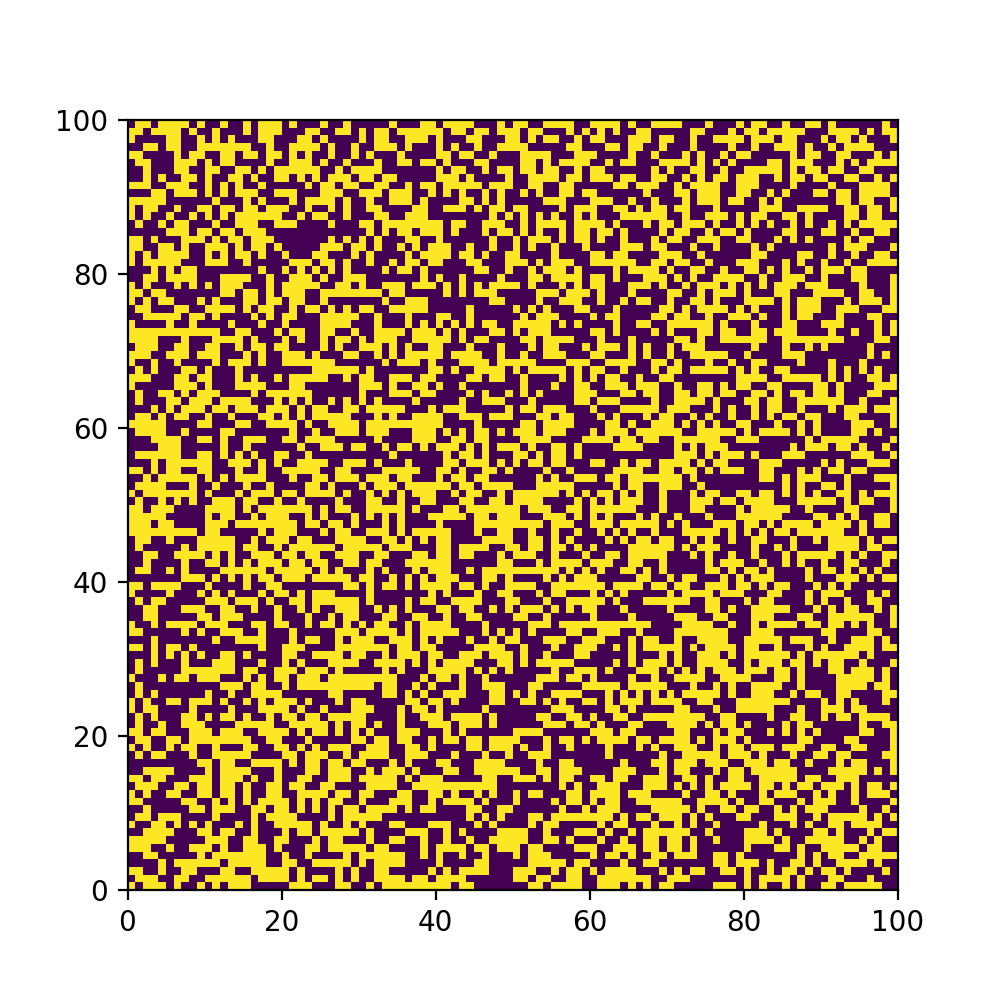
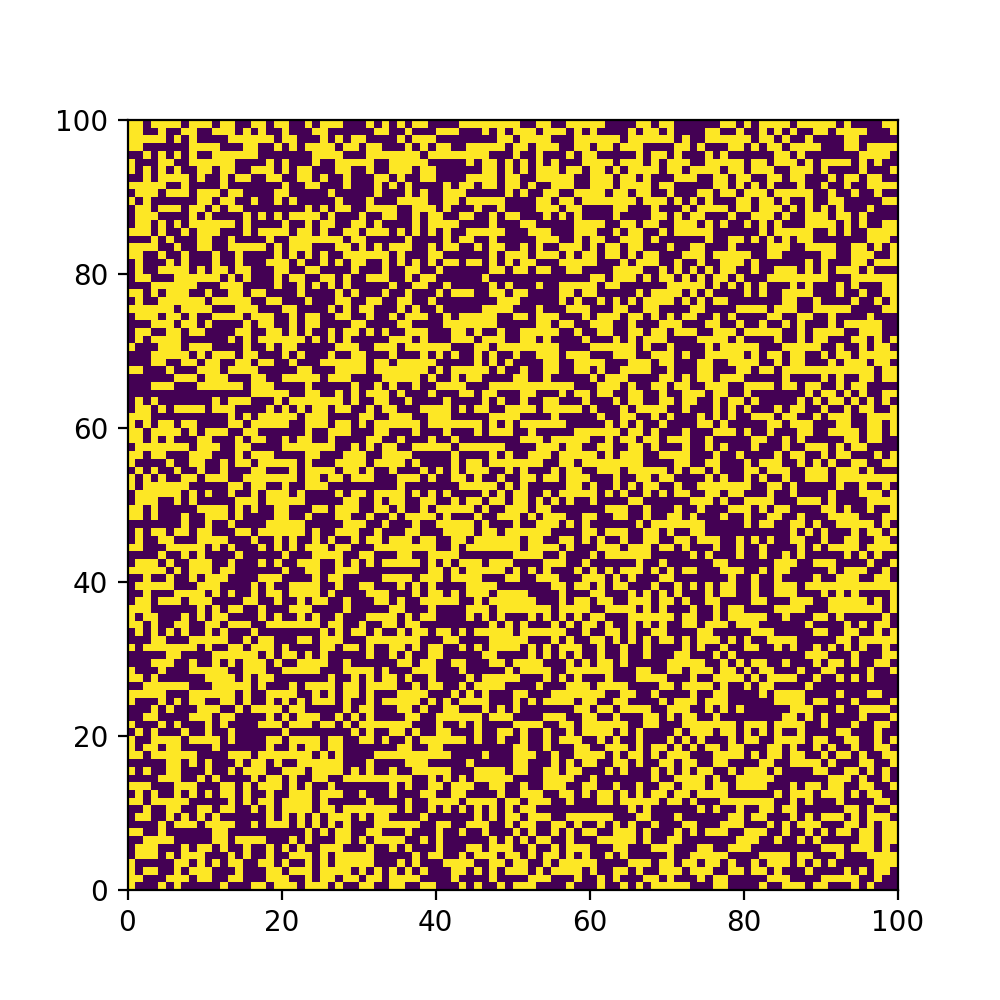
basically done. needs to be faster nedd to save array as string

Changed region(s): [[0.124, 0.124, 0.899, 0.899]]

diff --git a/Zweites/DeltaE/V2.py b/Zweites/DeltaE/V2.py
@@ -1,0 +1,34 @@
+import DetermineCharge as DC
+import numpy as np
+import MakeGitter as MG
+
+def deltaE(conf_alt, altE, pos, charge, n):
+    n -= 1
+
+    neuE = altE
+
+    neuE -= DC.getCharge(conf_alt, pos[0], pos[1], n)
+
+    neuE += charge
+    neuE += conf_alt[pos[0] - 1][pos[1]] if pos[0] >= 0 else 0
+    neuE += conf_alt[pos[0] + 1][pos[1]] if pos[0] <= (n-1) else 0
+    neuE += conf_alt[pos[0]][pos[1] - 1] if pos[1] >= 0 else 0
+    neuE += conf_alt[pos[0]][pos[1] + 1] if pos[1] <= (n-1) else 0
+
+    return neuE - altE
+
+def switchSpin(conf, n, e, r):
+    for x in range(r):
+        altE = DC.getAllCharge(conf, n)
+        charge = MG.charge()
+
+        pos = np.random.randint(0, n, size=(2))
+
+        if deltaE(conf, altE, pos, charge, n) <= 0:
+            conf[pos[0]][pos[1]] = charge
+        elif np.random.rand() < e:
+            conf[pos[0]][pos[1]] = charge
+        else:
+            pass
+
+    return conf

diff --git a/Zweites/main.py b/Zweites/main.py
@@ -7,7 +7,8 @@ import DeltaE.V2 as DeltaE
 import matplotlib.pyplot as plt
 
 n = 100
-e = 0.01
+e = 0.001
+r = 100000
 
 # print(DC.getAllCharge(x, n))
 def bla(n):
@@ -15,7 +16,7 @@ def bla(n):
 
 gitter = MG.getGitter(n)
 MG.save(gitter, n, "alt")
-conf_neu = DeltaE.switchSpin(gitter, n, e)
+conf_neu = DeltaE.switchSpin(gitter, n, e, r)
 MG.save(conf_neu, n, "neu")
 
 # x = MG.getGitter(n)

diff --git a/Zweites/DeltaE/V1.py b/Zweites/DeltaE/V1.py
@@ -5,8 +5,8 @@ import MakeGitter as MG
 def deltaE(conf_alt, conf_neu, n):
     return DC.getAllCharge(conf_neu, n) - DC.getAllCharge(conf_alt, n)
 
-def switchSpin(conf_alt, n, e):
-    for x in range(1000):
+def switchSpin(conf_alt, n, e, r):
+    for x in range(r):
         # altE = getAllCharge(conf_alt, n)
         pos = np.random.randint(0, n, size=(2))
         conf_neu = conf_alt
